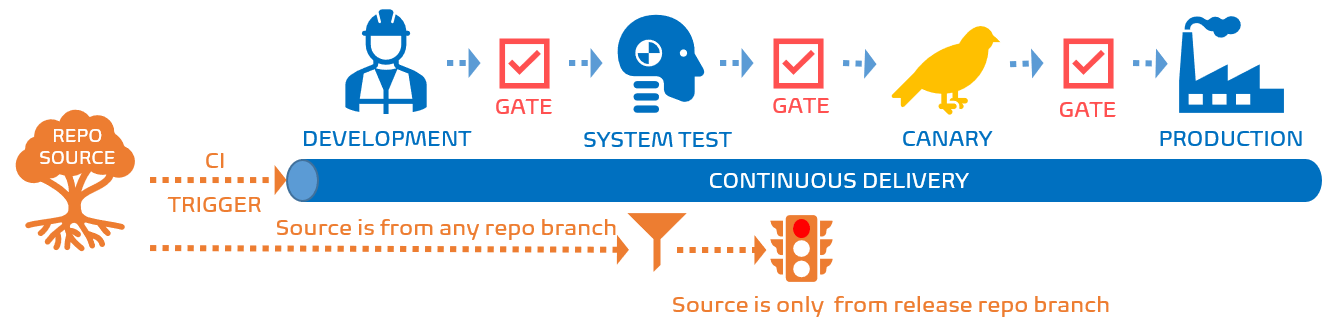
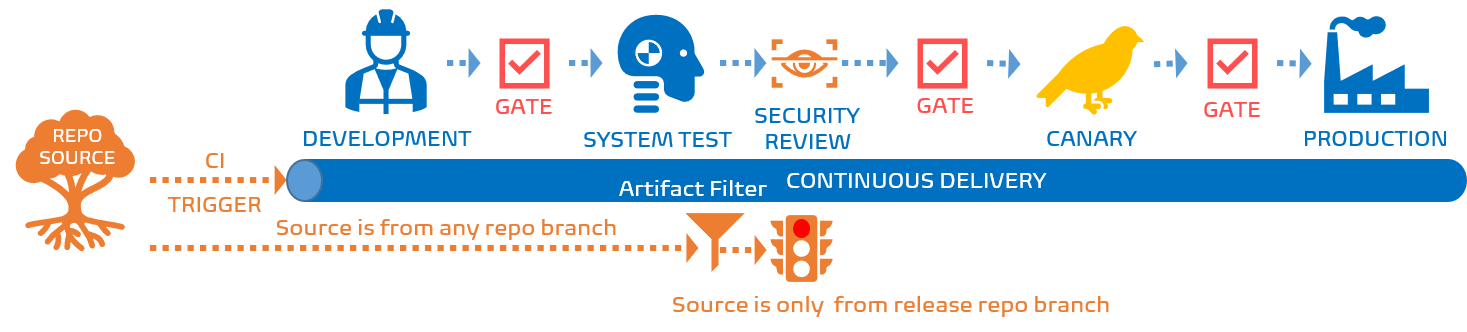
Safety update before I hop back to meetings

diff --git a/content/pipelines-streamlined-approvals.md b/content/pipelines-streamlined-approvals.md
@@ -4,20 +4,31 @@ Category: Posts
 Tags: azure-devops, eliminate-waste, pipelines, tips
 Slug: pipelines-streamlined-approvals
 Author: Willy-Peter Schaub
-Summary: TBD
+Summary: Back to the future, to optimize the Classic Azure Pipeline approvals.
 
-WHY-TBD
+To improve our deployment frequency, reduce our lead time for change, and avoid unnecessary release stress, we have invested a lot of time reviewing processes and products. In this post I am **NOT** covering the magic of YAML-based pipelines (see [magic of queue time assembly](https://wsbctechnicalblog.github.io/yaml-pipelines-part4.html) for details), but am focusing on the classic Azure Release Pipelines.
+
+>
+> DEPLOYMENT FREQUENCY - determines how many deployments are made to ****production**.
+>
+> LEAD TIME FOR CHANGE - is the average time between receiving a feature request and deploying it to **production**.
+>
 
 # Streamlined approvals
 
-
 ![Streamlined Approvals](/images/pipelines-streamlined-approvals-1.png)
 
-TBD
+As shown, we assume we have a release pipeline that deploys artifacts received from the continuous integration (build) pipeline to a development, system test, canary, and production environment. Deployment to the development environment is automatic, whereas we have gates before can deploy to the system test, canary, and production environments.
+
+For each gate we use one or more Azure Active Directory (AAD) groups to define the group of users who are authorized to approve the deployment. See [use gates and approvals to control your deployment](https://docs.microsoft.com/en-us/azure/devops/pipelines/release/deploy-using-approvals?view=azure-devops).
+
+You may or should be frowning at this point, because anything that is deployed to the system test environment automatically triggers the Security Review. In our environment this lead to agitated Security Engineers who were inundated with security review request across hundreds of release pipelines.
 
 ![Unhappy DevSecOps](/images/pipelines-streamlined-approvals-3.png)
 
-TBD
+Let us reduce the number of security reviews which are WASTEful and check back with DevSecOps.
+
+---
 
 # Artifact filters
 
@@ -26,6 +37,8 @@ TBD
 TBD
 
 ![Happy DevSecOps](/images/pipelines-streamlined-approvals-4.png)
+
+---
 
 # Mulling over the future approvals
 
